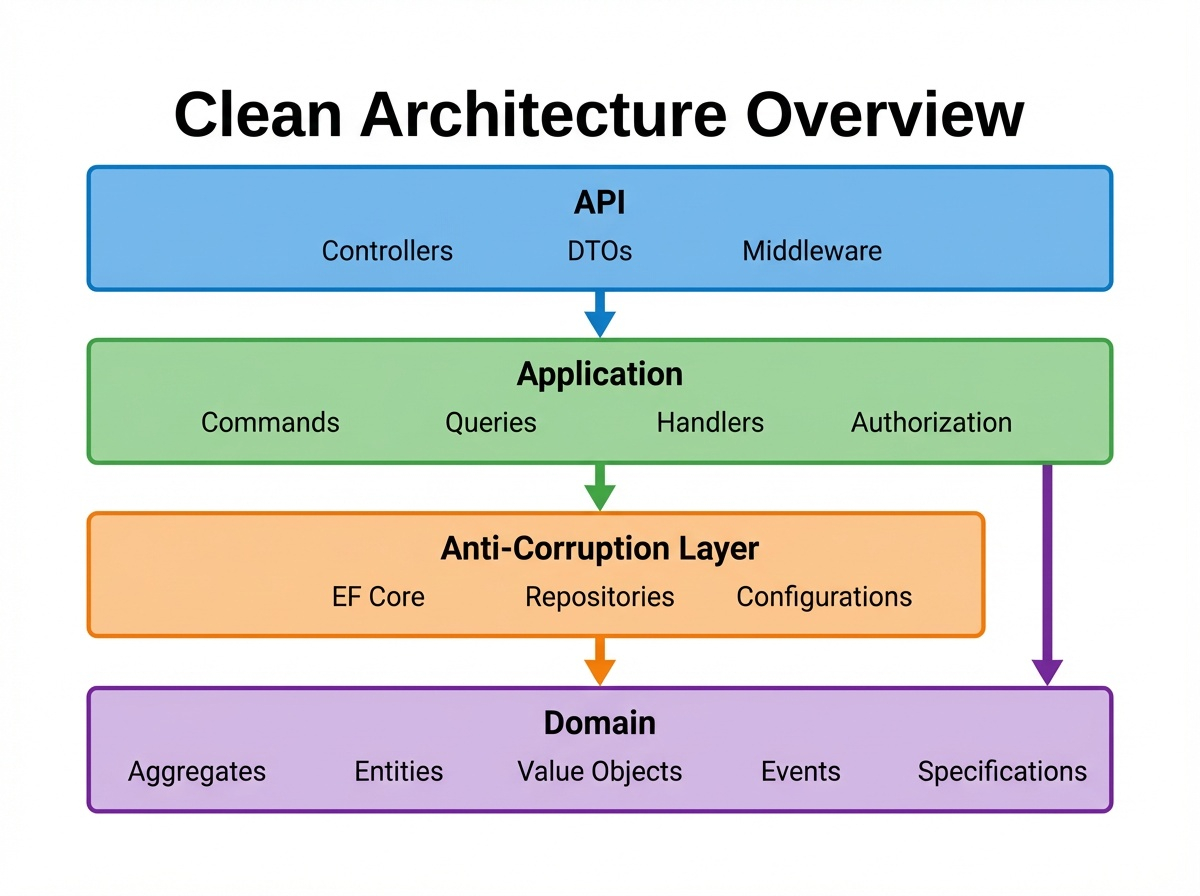
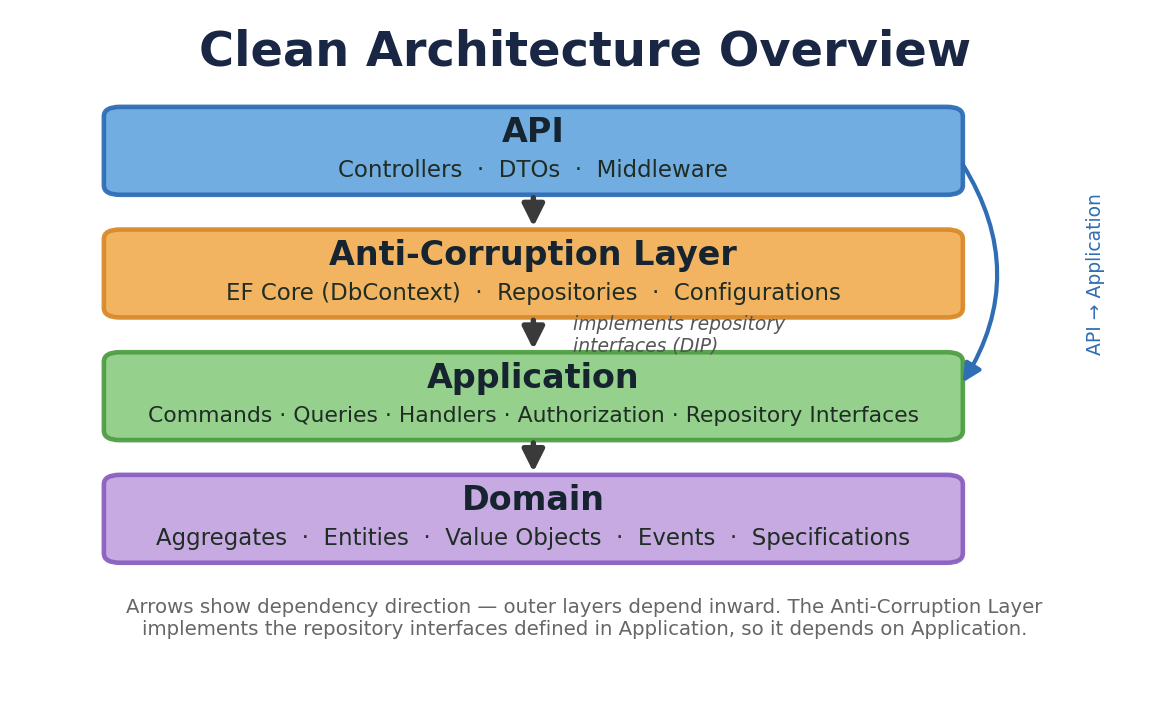
docs: fix Clean Architecture diagram dependency direction
The architecture-overview diagram drew the dependency arrows inverted for the Anti-Corruption Layer: it placed ACL between Application and Domain with an Application->ACL->Domain chain. Per the after/OrderManagement csproj graph, Application depends only on Domain, while Acl depends on Application (it implements the repository interfaces declared in Application -- Dependency Inversion), and Api depends on both.

Regenerate the diagram with the corrected outer->inner ordering (API -> ACL -> Application -> Domain, plus an API -> Application skip arrow) and add a reproducible matplotlib generator (docs/images/gen_architecture.py). Update the image spec in docs/images/README.md to match.

diff --git a/docs/images/gen_architecture.py b/docs/images/gen_architecture.py
@@ -1,0 +1,88 @@
+"""Generate the Clean Architecture Overview diagram (architecture-overview.png).
+
+Reflects the actual dependency direction of the OM reference implementation
+(after/OrderManagement): outer layers depend inward.
+
+    API  ->  Anti-Corruption Layer  ->  Application  ->  Domain
+    API  ----------------------------->  Application   (skip dependency)
+
+The Anti-Corruption Layer (EF Core) is an OUTER layer: it implements the
+repository interfaces declared in Application (Dependency Inversion), so it
+depends on Application rather than sitting between Application and Domain.
+
+Source of truth: the *.csproj ProjectReference graph under after/OrderManagement.
+Run with: python docs/images/gen_architecture.py
+"""
+
+from pathlib import Path
+
+import matplotlib.pyplot as plt
+from matplotlib.patches import FancyBboxPatch
+
+# Layers top -> bottom (outermost to innermost): name, contents, fill, edge.
+layers = [
+    ("API", "Controllers  ·  DTOs  ·  Middleware", "#6aa9e0", "#2f6db5"),
+    ("Anti-Corruption Layer",
+     "EF Core (DbContext)  ·  Repositories  ·  Configurations", "#f3b05a", "#d98a2b"),
+    ("Application",
+     "Commands · Queries · Handlers · Authorization · Repository Interfaces",
+     "#8fce86", "#4e9e44"),
+    ("Domain",
+     "Aggregates  ·  Entities  ·  Value Objects  ·  Events  ·  Specifications",
+     "#c3a6e0", "#8a5fc0"),
+]
+
+fig, ax = plt.subplots(figsize=(9.8, 5.9))
+ax.set_xlim(0, 10)
+ax.set_ylim(0, 10)
+ax.axis("off")
+fig.patch.set_facecolor("#ffffff")
+
+ax.text(5, 9.45, "Clean Architecture Overview", ha="center", va="center",
+        fontsize=23, fontweight="bold", color="#1a2744")
+
+box_left, box_w, box_h = 0.8, 7.5, 1.25
+centers_y = [8.0, 6.2, 4.4, 2.6]
+cx = box_left + box_w / 2
+
+for (name, sub, fill, edge), cy in zip(layers, centers_y):
+    ax.add_patch(FancyBboxPatch(
+        (box_left, cy - box_h / 2), box_w, box_h,
+        boxstyle="round,pad=0.02,rounding_size=0.14",
+        linewidth=2.2, edgecolor=edge, facecolor=fill, alpha=0.95))
+    ax.text(cx, cy + 0.27, name, ha="center", va="center",
+            fontsize=16, fontweight="bold", color="#16242f")
+    ax.text(cx, cy - 0.28, sub, ha="center", va="center",
+            fontsize=10.5 if name == "Application" else 11, color="#1f2d24")
+
+# Main dependency chain: each box depends on the one below it (arrow points down).
+for i in range(3):
+    ax.annotate("", xy=(cx, centers_y[i + 1] + box_h / 2),
+                xytext=(cx, centers_y[i] - box_h / 2),
+                arrowprops=dict(arrowstyle="-|>", lw=2.6, color="#3a3a3a",
+                                mutation_scale=22))
+
+# DIP annotation on the ACL -> Application arrow.
+ax.text(cx + 0.35, (centers_y[1] + centers_y[2]) / 2,
+        "implements repository\ninterfaces (DIP)", ha="left", va="center",
+        fontsize=9, style="italic", color="#555555")
+
+# Skip dependency: API also depends directly on Application (bypassing ACL).
+box_right = box_left + box_w
+ax.annotate("", xy=(box_right, centers_y[2] + 0.15),
+            xytext=(box_right, centers_y[0] - 0.15),
+            arrowprops=dict(arrowstyle="-|>", lw=2.0, color="#2f6db5",
+                            connectionstyle="arc3,rad=-0.32", mutation_scale=18))
+ax.text(box_right + 1.18, (centers_y[0] + centers_y[2]) / 2,
+        "API → Application", rotation=90, ha="center", va="center",
+        fontsize=9, color="#2f6db5")
+
+ax.text(5, 1.15,
+        "Arrows show dependency direction — outer layers depend inward. The "
+        "Anti-Corruption Layer\nimplements the repository interfaces defined in "
+        "Application, so it depends on Application.",
+        ha="center", va="center", fontsize=9.5, color="#666666")
+
+out = Path(__file__).with_name("architecture-overview.png")
+fig.savefig(out, dpi=150, bbox_inches="tight", facecolor=fig.get_facecolor())
+print("wrote", out)

diff --git a/docs/images/README.md b/docs/images/README.md
@@ -9,15 +9,22 @@ Each image below needs to be created and placed in this folder. The README.md re
 **Concept:** Wide banner showing the intersection of AI and enterprise software development. Think: a neural network or circuit board pattern morphing into clean architectural blueprints. Color palette: deep navy, electric blue, white accents.
 **Text overlay:** "Trellis Training Lab" + "AI-Powered Enterprise Service Development"
 
-### 2. `architecture-overview.png` (700×400)
-**Used in:** README.md "What Gets Built" section
-**Concept:** The 4-layer clean architecture diagram. Four horizontal layers stacked:
+### 2. `architecture-overview.png` (landscape, displayed at width 700)
+**Used in:** README.md header (above the lab catalog)
+**Concept:** The 4-layer clean architecture diagram, stacked outer → inner to match the
+actual `*.csproj` dependency graph in `after/OrderManagement`:
 - **API** (top, blue) — Controllers, DTOs, Middleware
-- **Application** (green) — Commands, Queries, Handlers, Authorization
-- **Anti-Corruption Layer** (orange) — EF Core, Repositories, Configurations
+- **Anti-Corruption Layer** (orange) — EF Core (DbContext), Repositories, Configurations
+- **Application** (green) — Commands, Queries, Handlers, Authorization, Repository Interfaces
 - **Domain** (purple, bottom) — Aggregates, Entities, Value Objects, Events, Specifications
 
-Arrows showing dependency direction (outer layers depend inward). Each layer shows key types it contains.
+Arrows point in the direction of dependency (outer layers depend inward): `API → ACL → Application → Domain`,
+plus an `API → Application` skip arrow. The Anti-Corruption Layer is an **outer** layer — it implements
+the repository interfaces declared in Application (Dependency Inversion), so it depends on Application
+rather than sitting between Application and Domain.
+
+Regenerate with [`gen_architecture.py`](gen_architecture.py) (`python docs/images/gen_architecture.py`);
+source of truth is the `ProjectReference` graph under `after/OrderManagement`.
 
 ### 3. `order-lifecycle.png` (600×350)
 **Used in:** README.md "What Gets Built" section
